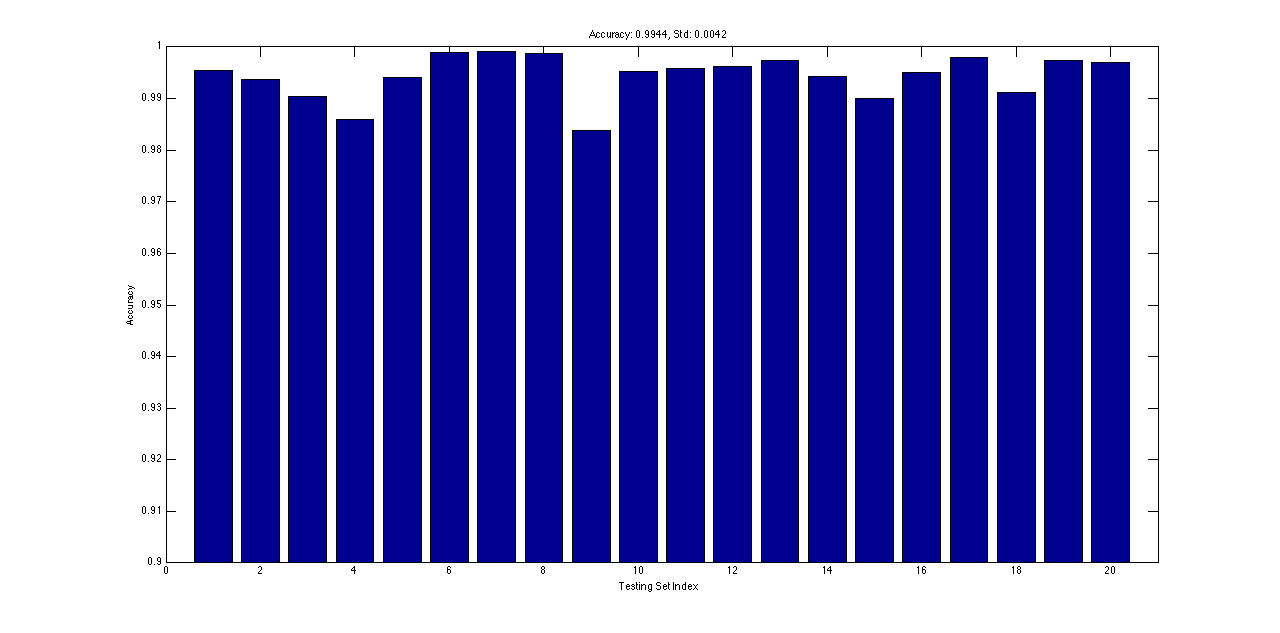
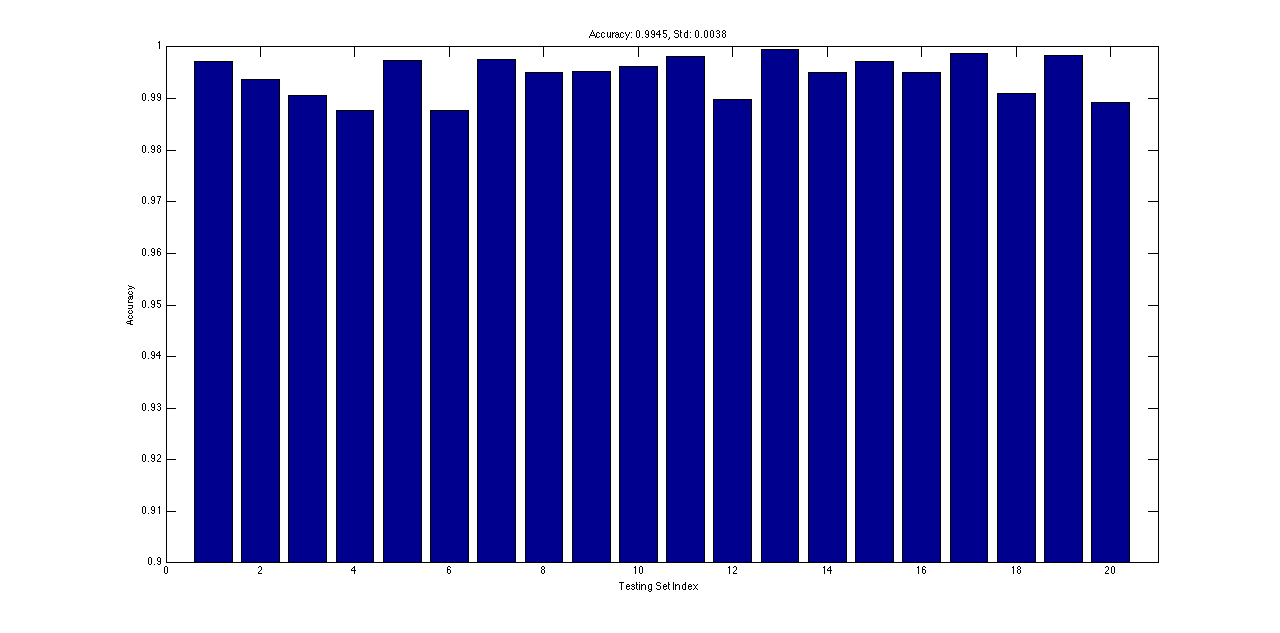
modified performance evaluation

diff --git a/HW01/Hw1_1Demo.m b/HW01/Hw1_1Demo.m
@@ -4,7 +4,7 @@ import Hw1PerceptronClassifier
 
 load Hw1data.mat
 X = [class0; class1];
-y = [ones(length(class0), 1); -ones(length(class1), 1)];
+y = [-ones(length(class0), 1); ones(length(class1), 1)];
 clear class0 class1;
 
 tic;
@@ -16,13 +16,16 @@ empErr = empErr / length(y);
 display(empErr);
 
 NIter = size(clsfier.W_history, 2)-1;
+
 for ii = 1:5
     subplot(5, 1, ii);
     plot(0:NIter , clsfier.W_history(ii, :));
     if ii < 5
         xlabel(['w_' num2str(ii)]);
+        title(['w_' num2str(ii) ' final = ' num2str( clsfier.w(ii) )]);
     else
         xlabel('b');
+        title(['b final = ' num2str( clsfier.b )]);
     end
 end
 
@@ -32,7 +35,7 @@ for ii = 1:Ntest
     Hw1_LinBinPerc_DataGen;
     load Hw1data.mat
     X = [class0; class1];
-    y = [ones(length(class0), 1); -ones(length(class1), 1)];
+    y = [-ones(length(class0), 1); ones(length(class1), 1)];
     clear class0 class1;
     y_predicted = clsfier.predict(X);
     accuracyArr(ii) = sum( y == y_predicted )/length(y);
